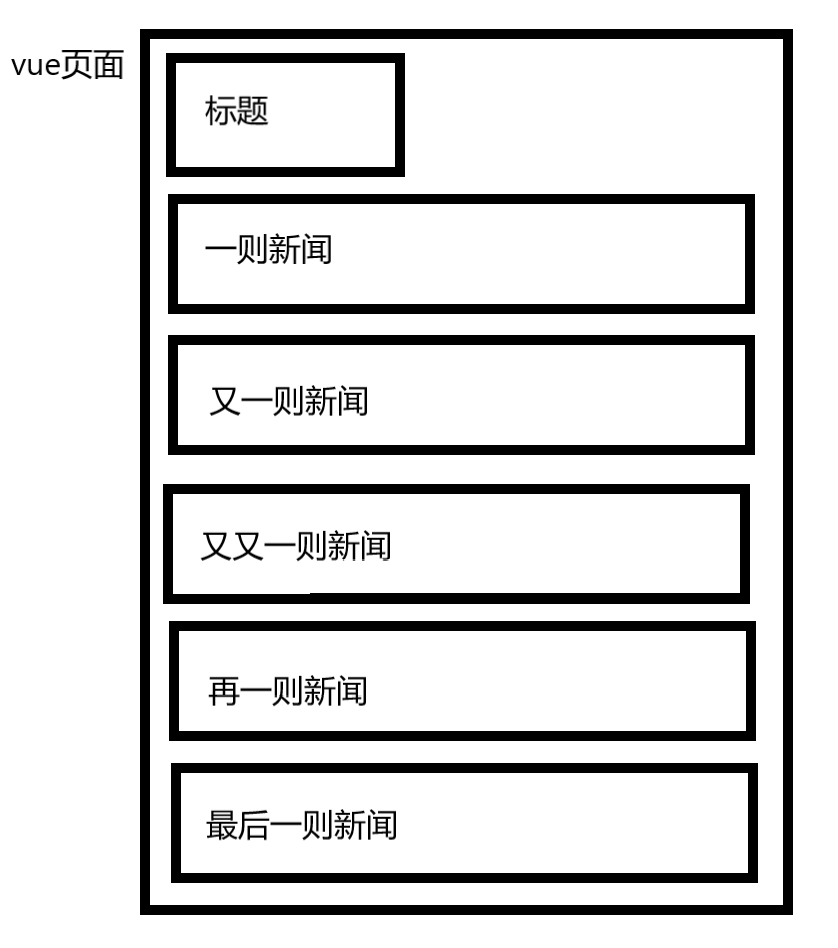
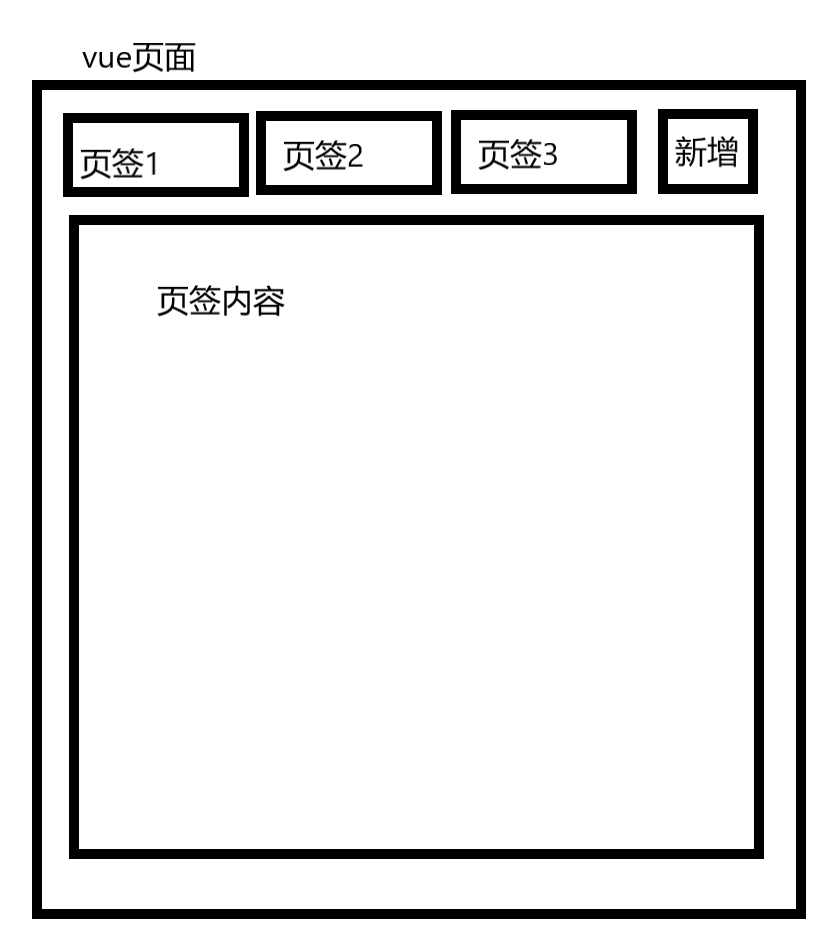
写Vue动态创建组件

Changed region(s): [[0.0, 0.0306, 0.9618, 0.9789]]

diff --git a/Vue/动态创建组.md b/Vue/动态创建组.md
@@ -3,14 +3,110 @@
 **爱总结，爱板砖，爱生活**
 
 ## 引言
-- 最近在板砖途中遇到一个需要动态创建Vue组件并插入到页面上的需求，之前没有遇到过这类需求，经过一番百度搞定这个问题，在这里写下总结，作为回顾。
+最近在板砖途中遇到一个需要动态创建Vue组件并插入到页面上的需求，之前没有遇到过这类需求，经过一番百度搞定这个问题，在这里写下总结，作为回顾。
 
 ## 心得
-- 动态创建组件依靠`Vue.extend`
+动态创建组件依靠`Vue.extend`
 
 
 ## 案例引入
-- 现在有下面这样一个Vue页面，图来...
-![案例引入]()
+现在有下面这样一个需求需要用vue实现，图来...
+<img src="https://note.youdao.com/yws/api/personal/file/C82414E778A24C87ADD9357392BF8025?method=download&shareKey=cb28fb3e8429d696a0c91fb3f6cb83cf" alt="案例引入">
 
+**案例分析**
+案例中用户通过点击新增按钮，新加下一个页签，要实现这个需求只能通过动态的创建组件，然后添加到页面中，下面来实现这个需求（页签内容部分就不做了，重点放在动态创建页签按钮）
 
+## 案例实现
+```html
+<div id="app" class="app">
+  <div class="title">XXX页面</div>
+  <div id="tabBox" class="tabBox"></div>
+  <div class="add" @click="add">+</div>
+</div>
+
+<template id="tab">
+  <div class="tab">{{tabname}}</div>
+</template>
+
+<script src="./lib/vue.js"></script>
+<script>
+  const tab = {
+    template: '#tab',
+    props: ['tabname']
+  }
+  const vm = new Vue({
+    data: {
+      tabName: '',
+      base: '页签',
+      num: 1
+    },
+    methods: {
+      add() {
+        this.tabName = this.base + this.num
+        this.num++
+        const tabCmp = new (Vue.extend(tab))({propsData: {tabname: this.tabName}}).$mount()
+        document.getElementById('tabBox').appendChild(tabCmp.$el)
+      }
+    }
+  }).$mount('#app')
+</script>
+```
+<a href="#">完整代码</a>
+
+**代码分析**
+1. 创建一个vue页面，页面内包含3个`div`，`title`是页面的标题， `tabBox`用来放所有的页签，`add`监听用户的点击添加页签；
+2. 局部注册一个组件`tab`，传入了`template`和`props`两项属性；
+3. 在父组件的`methods`中添加add事件处理函数，重点就在这个事件处理函数中，首先生成`tabName`，然后利用`Vue.extend`一番操作得到组件`tabCmp`，最后将创建的组件`tabCmp`插入到`tabBox`这个元素中；
+4. 当目前为止，当用户每次点击`add`按钮,便会在`tabBox`中插入一个`tab`组件，页面上也会做更新；
+5. 在这一连串的操作中核心就是`Vue.extend`,下面具体认识以下这个API。
+
+## 关于Vue.extend
+先看Vue官网对于这个API的解释:
+> 使用基础 `Vue` 构造器，创建一个“子类”。参数是一个包含组件选项的对象。
+> `data` 选项是特例，需要注意 - 在 `Vue.extend()` 中它必须是函数
+- 通俗的讲`Vue.extend`就是一个构造函数，它可以生成一个Vue实例（子类），可以像使用Vue构造函数一样使用他。特别注意的是他里面的data一定要是函数，这一点很好理解隔离作用域；
+- 将前面关键代码拆分一下理解，如下：
+```js
+const tabCmp = new Vue.extend({
+  template: "#tab",
+  props: ['tabname']
+}).$mount()
+```
+- 这样看就他跟`Vue`构造函数没区别,`$mount()`负责挂载，不是这里的重点，不赘述；
+- 但这还不够，这还不能完成上面的动态创建组件，`props`的值怎么传到`tabCmp`组件中，这里可以看一下Vue源码中关于`Vue. extend`的实现
+
+### Vue.extend的源码实现
+下面代码片段是我从源码中摘取出来的
+```js
+// 取自vue-js/src/core/global-api/extend.js
+Vue.extend = function (extendOptions: Object): Function {
+  // ...
+  const Super = this
+  // ...
+  const Sub = function VueComponent (options) {
+    this._init(options)
+  }
+  // ...
+  Sub['super'] = Super
+  // ...
+  return Sub
+}
+
+// 取自vue-js/src/core/instance/init.js
+Vue.prototype._init = function (options?: Object) {
+  // ...
+  if (options && options._isComponent) {
+    // ...
+  } else {
+    vm.$options = mergeOptions(
+      resolveConstructorOptions(vm.constructor),
+      options || {},
+      vm
+      )
+    }
+  // ...
+}
+```
+- 跟着源码走一遍`new Vue.extend()`得到一个`Sub`, 调用`Sub`会执行的`_init`方法,`_init`方法接受一个options对象，在这里只传入`propsData`就相当于在标签中绑定了一个props值，继续往下代码会执行`mergeOptions()`,在这个函数中将父组件中的`options`和刚传入的子组件的`options`做合并并返回，然后赋值给父组件的`options`，至此就完成了在父组件中给动态组件传值的过程；
+- 回到案例中动态创建的组件`new Vue.extend(tab)`得到实例`Sub`，调用它并传入参数`(new Vue.extend(tab))({propsData: {tabname: this.tabName}})`，最后调用`$mount`挂载组件，至此就完成了组件的动态创建和挂载；
+- 回顾一下`Vue.extend`其实就是Vue暴露了一个接口允许我们在一个父Vue实例下动态的去创建另外一个子Vue实例并挂载到父Vue上。
